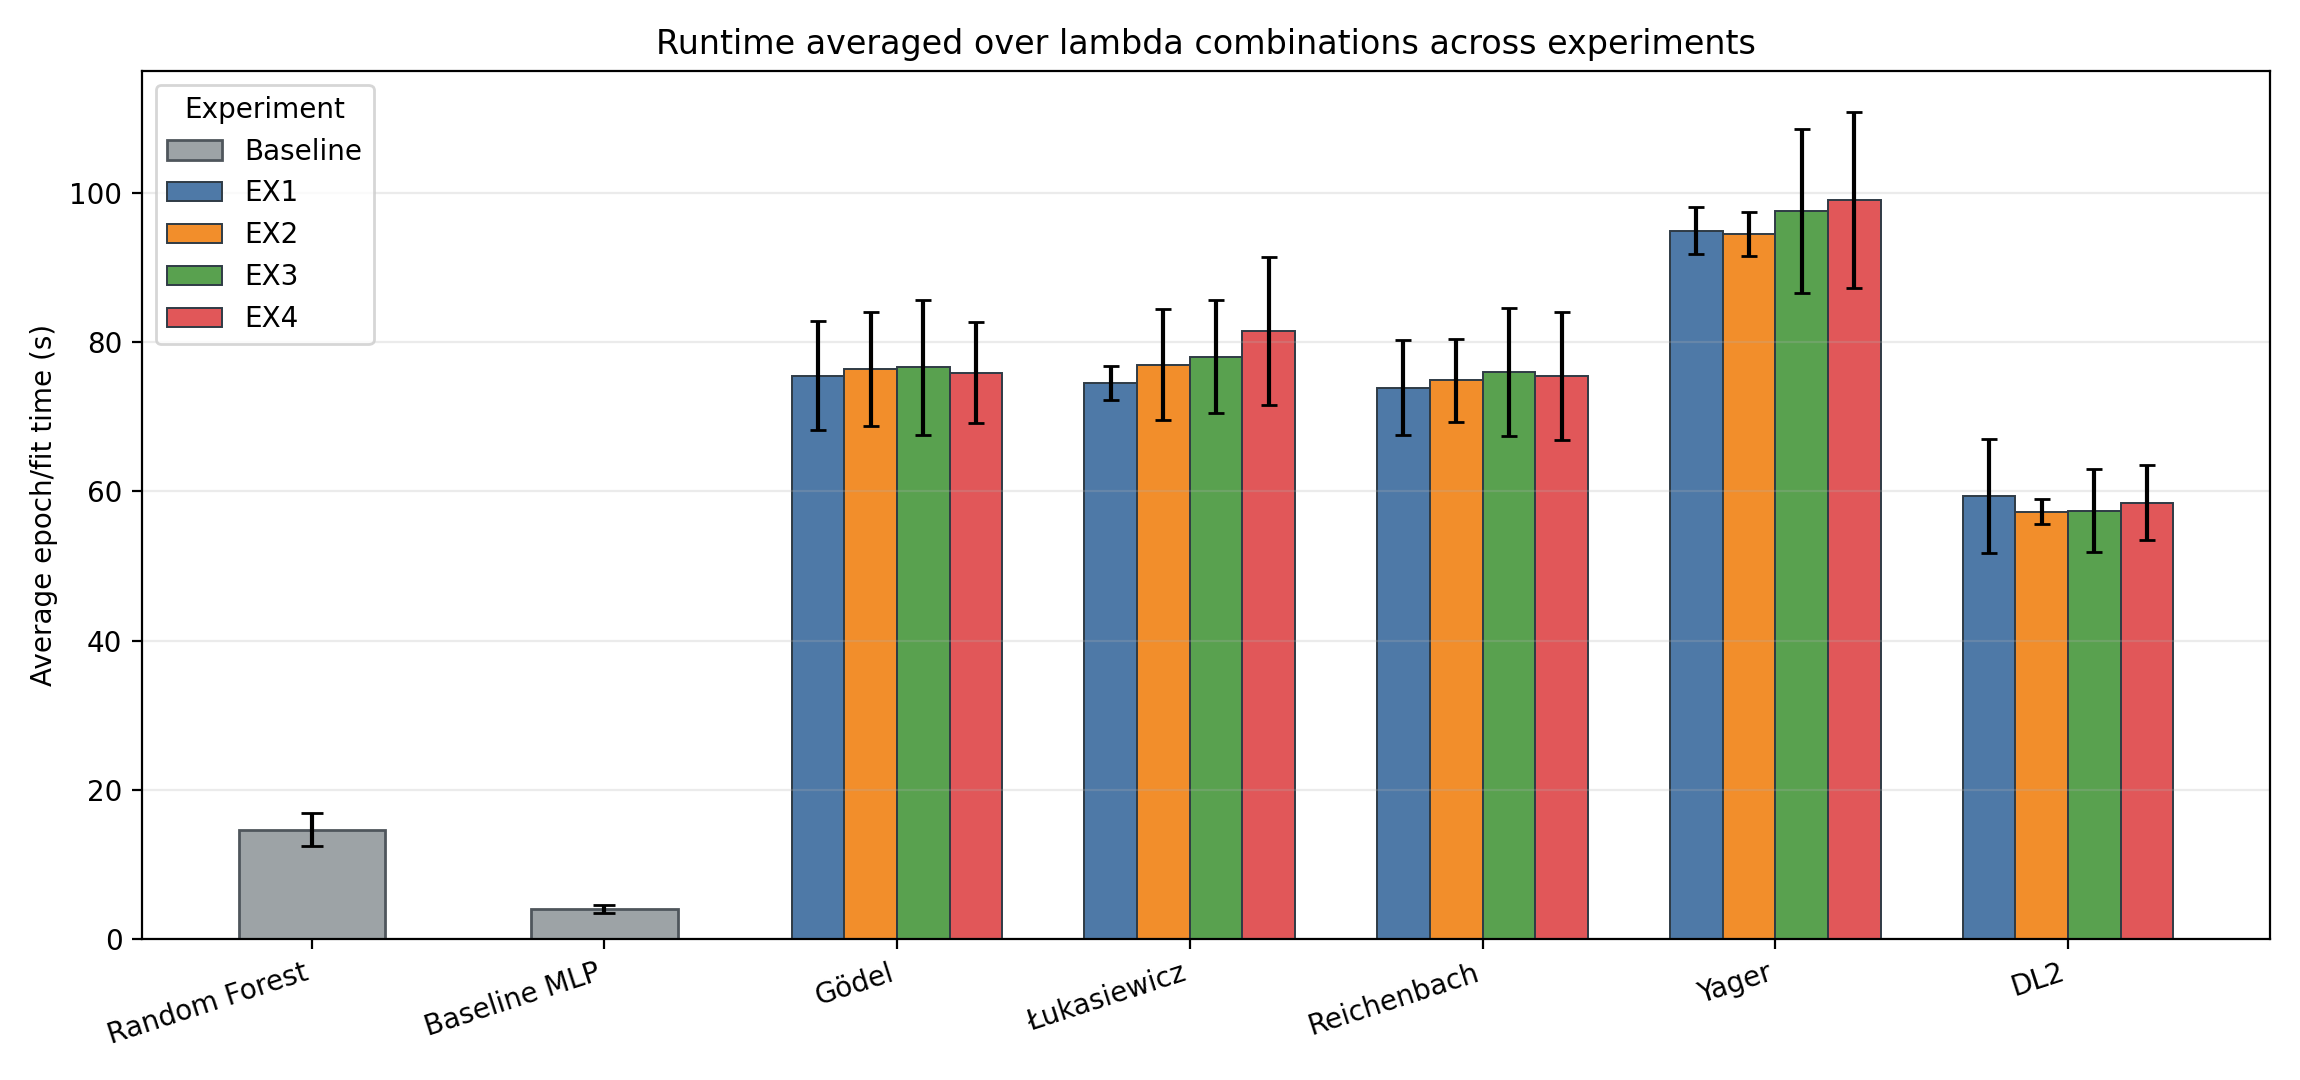
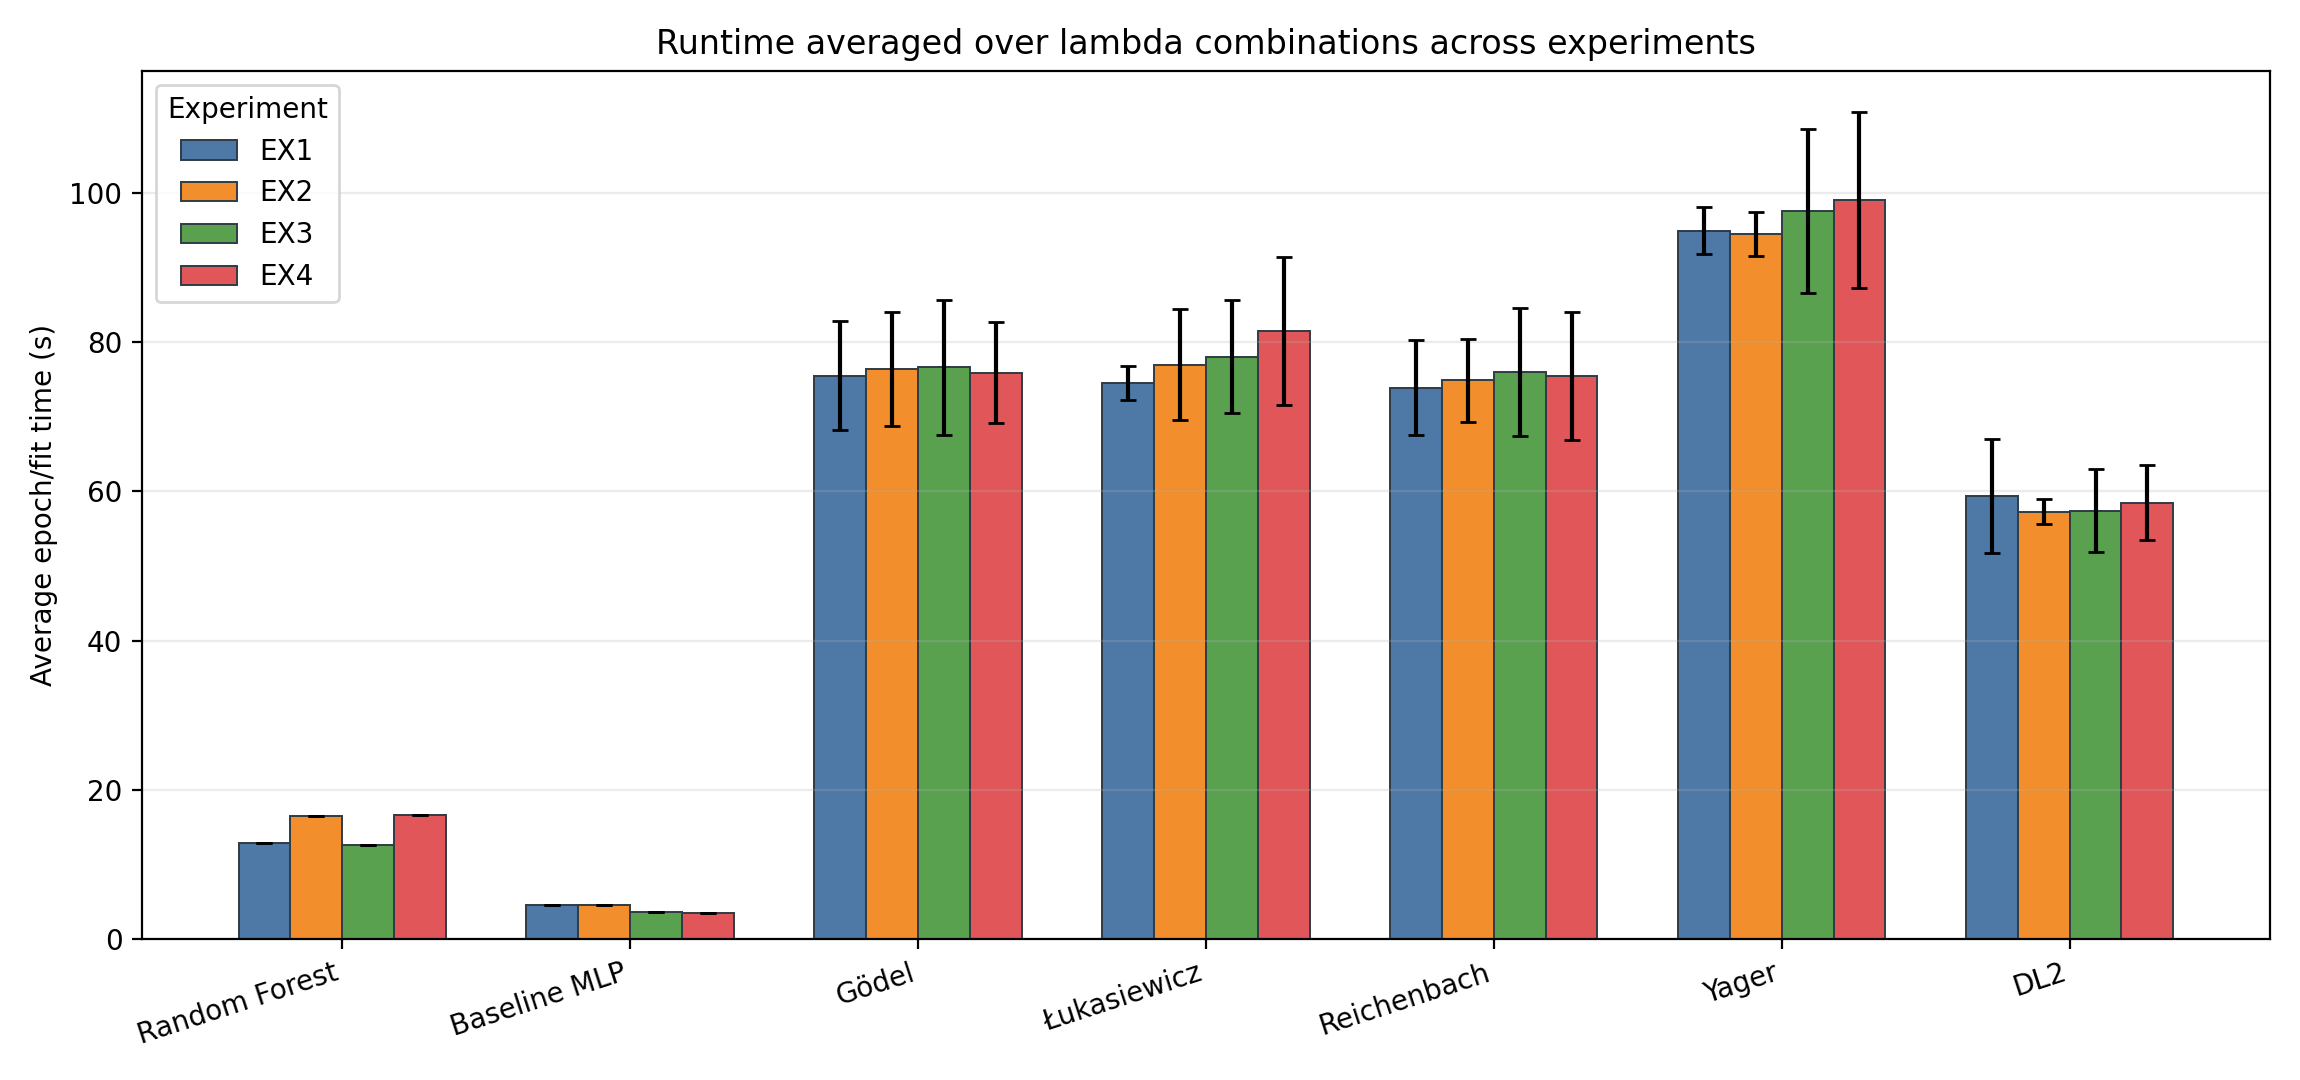
Added more models for time testing!

diff --git a/generate_runtime_results.py b/generate_runtime_results.py
@@ -510,8 +510,7 @@ def print_combined_logic_runtime_log(experiment_records):
 
 
 def plot_combined_logic_lambda_average(experiment_records, path):
-    baseline_keys = [model_key for model_key, _, is_property in MODELS if not is_property]
-    property_keys = [model_key for model_key, _, is_property in MODELS if is_property]
+    model_keys = [model_key for model_key, _, _ in MODELS]
     labels_by_key = {
         model_key: runtime_model_label(model_key, model_label)
         for model_key, model_label, _ in MODELS
@@ -521,55 +520,19 @@ def plot_combined_logic_lambda_average(experiment_records, path):
         for item in experiment_records
     }
 
-    baseline_records = {}
-    for key in baseline_keys:
-        experiment_baselines = [
-            records_by_experiment[experiment].get(key)
-            for experiment in EXPERIMENTS
-            if records_by_experiment[experiment].get(key) is not None
-        ]
-        if not experiment_baselines:
-            continue
-        baseline_means = [record.mean_seconds for record in experiment_baselines]
-        baseline_records[key] = LogicLambdaAverageRecord(
-            model_key=key,
-            model_label=labels_by_key[key],
-            lambda_count=0,
-            mean_seconds=mean(baseline_means),
-            std_seconds=stdev(baseline_means) if len(baseline_means) > 1 else 0.0,
-        )
-
     colors = {
         "ex1": "#4e79a7",
         "ex2": "#f28e2b",
         "ex3": "#59a14f",
         "ex4": "#e15759",
     }
-    baseline_color = "#9da3a6"
-    group_keys = baseline_keys + property_keys
-    group_centers = list(range(len(group_keys)))
+    group_centers = list(range(len(model_keys)))
     width = 0.18
 
     fig, ax = plt.subplots(figsize=(11.5, 5.4))
 
-    for center, key in zip(group_centers, group_keys):
-        if key in baseline_keys:
-            record = baseline_records.get(key)
-            if record is None:
-                continue
-            ax.bar(
-                center,
-                record.mean_seconds,
-                yerr=record.std_seconds,
-                width=0.5,
-                color=baseline_color,
-                edgecolor="#4f565c",
-                capsize=4,
-                label="Baseline" if key == baseline_keys[0] else None,
-            )
-            continue
-
-        offsets = [(-1.5 + index) * width for index in range(len(EXPERIMENTS))]
+    offsets = [(-1.5 + index) * width for index in range(len(EXPERIMENTS))]
+    for center, key in zip(group_centers, model_keys):
         for experiment, offset in zip(EXPERIMENTS, offsets):
             record = records_by_experiment[experiment].get(key)
             if record is None:
@@ -583,11 +546,11 @@ def plot_combined_logic_lambda_average(experiment_records, path):
                 edgecolor="#2f3b45",
                 linewidth=0.7,
                 capsize=3,
-                label=experiment.upper() if center == len(baseline_keys) else None,
+                label=experiment.upper() if center == 0 else None,
             )
 
     ax.set_xticks(group_centers)
-    ax.set_xticklabels([labels_by_key[key] for key in group_keys], rotation=18, ha="right")
+    ax.set_xticklabels([labels_by_key[key] for key in model_keys], rotation=18, ha="right")
     ax.set_ylabel("Average epoch/fit time (s)")
     ax.set_title("Runtime averaged over lambda combinations across experiments")
     ax.grid(axis="y", alpha=0.25)

diff --git a/src/thesis/models/torch_models.py b/src/thesis/models/torch_models.py
@@ -5,14 +5,14 @@ import torch.nn as nn
 
 
 class MLP(nn.Module):
-    def __init__(self, n_features: int, num_classes: int):
+    def __init__(self, n_features: int, num_classes: int, hidden_width: int = 64):
         super().__init__()
         self.head = nn.Sequential(
-            nn.Linear(n_features, 64),
+            nn.Linear(n_features, hidden_width),
             nn.ReLU(),
-            nn.Linear(64, 64),
+            nn.Linear(hidden_width, hidden_width),
             nn.ReLU(),
-            nn.Linear(64, num_classes),
+            nn.Linear(hidden_width, num_classes),
         )
 
     def forward(self, x):
@@ -22,6 +22,13 @@ class MLP(nn.Module):
 
 
 def build_model(model_type: str, n_features: int, num_classes: int) -> nn.Module:
-    if model_type != "mlp":
-        raise ValueError(f"Unknown torch model type: {model_type}")
-    return MLP(n_features=n_features, num_classes=num_classes)
+    hidden_widths = {
+        "mlp": 64,
+        "mlp_43k": 200,
+        "mlp_186k": 422,
+    }
+    try:
+        hidden_width = hidden_widths[model_type]
+    except KeyError as exc:
+        raise ValueError(f"Unknown torch model type: {model_type}") from exc
+    return MLP(n_features=n_features, num_classes=num_classes, hidden_width=hidden_width)